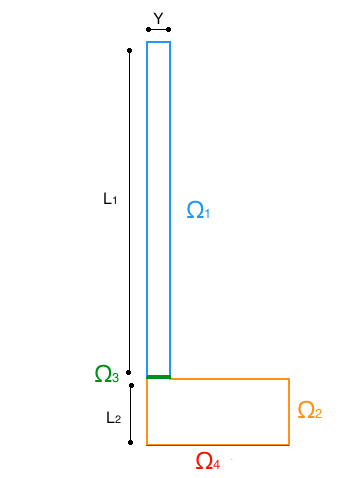
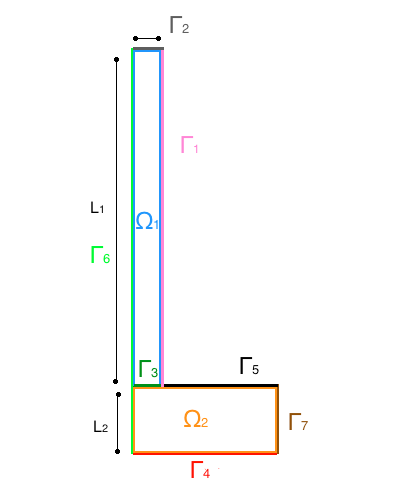
update
git-svn-id: svn+ssh://forge.imag.fr/var/lib/gforge/chroot/scmrepos/svn/life/trunk/life/trunk@7351 18f2cc81-8059-4896-b63e-f2d89ec8fd72

Changed region(s): [[0.2041, 0.0293, 0.9329, 0.9958], [0.5248, 0.41, 0.6122, 0.4686]]

diff --git a/doc/manual/examples/thermalfin.tex b/doc/manual/examples/thermalfin.tex
@@ -1,7 +1,7 @@
 \feelchapter{Heat sink}
             {Heat sink}
             {Baptiste Morin, Christophe Prud'homme}
-            {cha:thermalfin}
+            {cha:heatsink}
 
 This problem considers the performance of a heat sink designed for the thermal management of high-density electronic components. The heat sink is comprised of a base/spreader which in turn supports a number of plate fins exposed to flowing air. We model the flowing air through a simple convection heat transfer coefficient. From the engineering point of view, this Problem illustrates the application of conduction analysis to an important class of cooling problems: electronic components and systems. \\ \\
 Our interest is in the conduction temperature distribution at the base of the spreader. The target is to study how the heat transfer occures with different parameters on our heat sink. The heat generated by high-density electronic components is such that it's very expensive to cool large structures (data center). The cooling optimization is consequent in the run for decreasing operating costs.
@@ -27,7 +27,7 @@ We consider here a classical "radiator" which is a CPU heat sink. Those types of
 \caption{Geometry of heat sink}
 \end{figure}
 
-Our study is avaible in 2 or 3 dimensions, depending on the application's parameters. You'll see later how to work with it. Let's see on which meshes we are working on (draws are have been made with a mesh size \lstinline!hsize = 0.5!)  :
+Our study is avaible in 2 or 3 dimensions, depending on the application's parameters. You'll see later how to work with it. Let's see on which meshes we are working on :
 \begin{figure}[!h]
 \begin{minipage}[b]{.50\linewidth}
 \centering
@@ -44,14 +44,14 @@ Our study is avaible in 2 or 3 dimensions, depending on the application's parame
 We consider the physical domain $\varOmega (\mu)$ where $\mu = (\mu_1, ...,\mu_p)$ represents the parameters of our concern. 
 
 \subsection{Parameters}
-The implementation of thoses parameters are described in ~\ref{therm:param}.
+The implementation of thoses parameters is described in the section ~\ref{heat:param}.
 
 \subsubsection{Biot number}
 The Biot number $Bi$ is a dimensionless number used in non-steady or transient states in heat transfer calculations. It gives a simple index of the ratio of the heat transfer resistances inside  and at the surface of a body. This number determines wheter or not the temperatures insdide a body will significantly vary in space while the body heats or cools over time from a thermal gradient applied to its surface. This number is defined as 
 \begin{equation}
 Bi = \frac{hL_c}{k_b}
 \end{equation} 
-where $h$ is the heat transfert coefficient, $L_c$ is the characteristic length (commonly defined as the volume of the body divided by the surface area) and $k_b$ is the thermal conductivity of the body (here the body is the thermal fin) and is expressed in $Wm^{-1}K^{-1}$. This number has to be between $0$ and $1$, this condition is included in the parameters described in ~\ref{therm:param}. This conductivity is typically one of the parameters we are insterested in to modify. This parameter corresponds to the material choosen for the heat sink. Here is a small array for the well-known metals :
+where $h$ is the heat transfert coefficient, $L_c$ is the characteristic length (commonly defined as the volume of the body divided by the surface area) and $k_b$ is the thermal conductivity of the body (here the body is the thermal fin) and is expressed in $Wm^{-1}K^{-1}$. This number has to be between $0$ and $1$, this condition is included in the parameters described in ~\ref{heat:param}. This conductivity is typically one of the parameters we are insterested in to modify. This parameter corresponds to the material choosen for the heat sink. Here is a small array for the well-known metals :
 \begin{center}
 \begin{tabular}{|c|c|}
   \hline
@@ -90,7 +90,7 @@ The thickness of a platefin (divided by two here because we are working on a hal
 This parameter is to take into account only if you are considering the 3D issue. Typically, this parameter is linked with constructor's standards. This parameter is called \lstinline!depth! in the application's implementation.
 
 
-\section{Theory and implementation}
+\section{Theory}
 \label{therm:equations}
 
 \subsection{Figure}
@@ -101,9 +101,7 @@ The following figure describes the parameters and the geometry we are using in t
 \caption{Geometry details}
 \end{figure}
 
-%\Huge $\varOmega_1 \quad \quad \quad \varOmega_2$
-
-The global domain is $\varOmega = \varOmega_1 \cup \varOmega_2 $ where $\varOmega_1$ is the fin's domain and $\varOmega_2$ the spreader's domain. We note $\partial\varOmega$ the border of the domain $\varOmega$.
+The global domain is $\varOmega = \varOmega_1 \cup \varOmega_2 $ where $\varOmega_1$ is the fin's domain and $\varOmega_2$ the spreader's domain. We note $\partial\varOmega$ the border of the domain $\varOmega$. The phyical lines we are using will be noted as $\Gamma_i$ such as described above.
 
 
 \subsection{Equations}
@@ -111,26 +109,62 @@ The global domain is $\varOmega = \varOmega_1 \cup \varOmega_2 $ where $\varOmeg
 Our concern satisfies the heat equation which reads 
 \begin{equation}
    \begin{split}
-      \displaystyle{\rho \frac{ \partial T}{\partial t}}  -  \kappa \Delta T & = 0 \\ \\
-      \displaystyle{ \kappa \frac{\partial T}{\partial n}} & =  1_{| \varOmega_{base}} \\ \\
-      \displaystyle{ \kappa \frac{\partial T}{\partial n}} & = - Bi T_{| \partial \varOmega_1 \backslash \varOmega3 } \\ \\
-     Q_{in} & = Q_{out} (periodicity)
+      \displaystyle{\rho \frac{ \partial T}{\partial t}}  -  \kappa \Delta T & = 0
   \end{split}
 \end{equation}
-where $\rho$ is the material's density ($kg.m^{-3}$ in the SI unit), $Bi$ the Biot number and $T$ the temperature at a precise point (in 2D or 3D).
+\begin{equation}
+\label{hom_neu}
+   \begin{split}
+      \displaystyle{ \kappa \frac{\partial T}{\partial n}} & =  0 \quad on \quad \Gamma_2,\Gamma_5, \Gamma_6 \quad and \quad \Gamma_7 \\ \\ 
+  \end{split}
+\end{equation}
+\begin{equation}
+\label{classic_neu}
+   \begin{split}
+      \displaystyle{ \kappa \frac{\partial T}{\partial n}} & = - Bi T_{ | \Gamma_1 } \\ \\
+  \end{split}
+\end{equation}
+\begin{equation}
+\label{nonhom_neu}
+   \begin{split}
+      \displaystyle{ \kappa \frac{\partial T}{\partial n}} & =  1_{| \Gamma_4} \\ \\
+  \end{split}
+\end{equation}
 
-\subsubsection{Steady-state}
-Here the steady state can be considered as the standard state because it corresponds to the standard utilisation of the components. This state satisfies the conduction equation.
+where $\rho$ is the material's density ($kg.m^{-3}$ in the SI unit), $Bi$ the Biot number and $T$ the temperature at a precise point (in 2D or 3D). To see how it has been coded, you can read \ref{heat:eq_impl}.
 
-\subsubsection{Transient states}
+%\subsubsection{Steady-state}
+%Here the steady state can be considered as the standard state because it corresponds to the standard utilisation of the components. This state satisfies the conduction equation.
+%
+%\subsubsection{Transient states}
 
 
 \subsection{Boundary conditions}
-The problem requieres that the temperature and heat flux are continute on fin or spreader interfaces. Considering the problem's geometry, we also impose zero heat flux on the vertical surfaces of the spreader. 
+\label{heat:bc}
+The problem requieres that the temperature and heat flux are continute on $\Gamma_3$. Considering the problem's geometry, we also impose zero heat flux on the vertical surfaces of the spreader. Let's detail the conditions we have imposed :
+\begin{itemize}
+\item Homogeneous Neumann condition (\ref{hom_neu}) : it represents the fact that the heat flux is only vertical (for $\Gamma_6$ and $\Gamma_7$) or the fact that the heat flux is only provided by $\Gamma_4$ (for $\Gamma_2$ and $\Gamma_5$).
 
-\section{Application parameters}
-\label{therm:param}
+\item Homogeneous Neumann condition (\ref{classic_neu}) : it imposes that the heat flux is brought by this surface (it mathematically represents that the heat sink is placed on the heat source).
+
+\item Non-homogeneous Neumann condition (\ref{nonhom_neu}) :  this boundary condition represents the transient state for the heat transfer calculation.
+\end{itemize}
+
+Theses conditions have been coded as explained in the section \ref{heat:bc_impl}.
+
+\section{Implementation}
+\label{heat:impl}
+
+\subsection{Application parameters}
+\label{heat:param}
 
 The parameters of the application are described such as 
 \lstinputlisting[linerange=marker1-endmarker1]{../../examples/heat/heatsink.cpp}
 
+\subsection{Boundaries conditions}
+\label{heat:bc_impl}
+
+\subsection{Equations}
+\label{heat:eq_impl}
+
+\subsection{Results}
